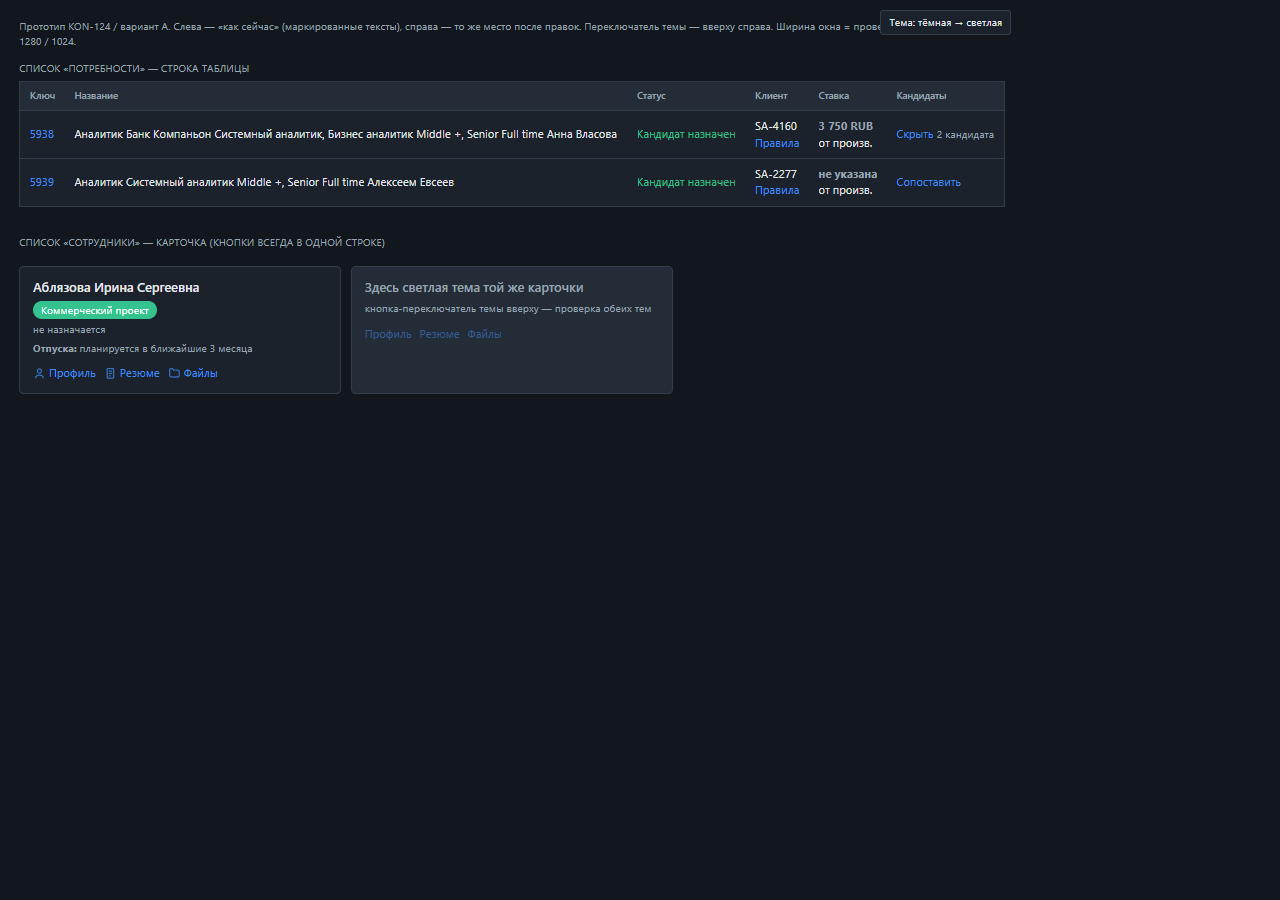
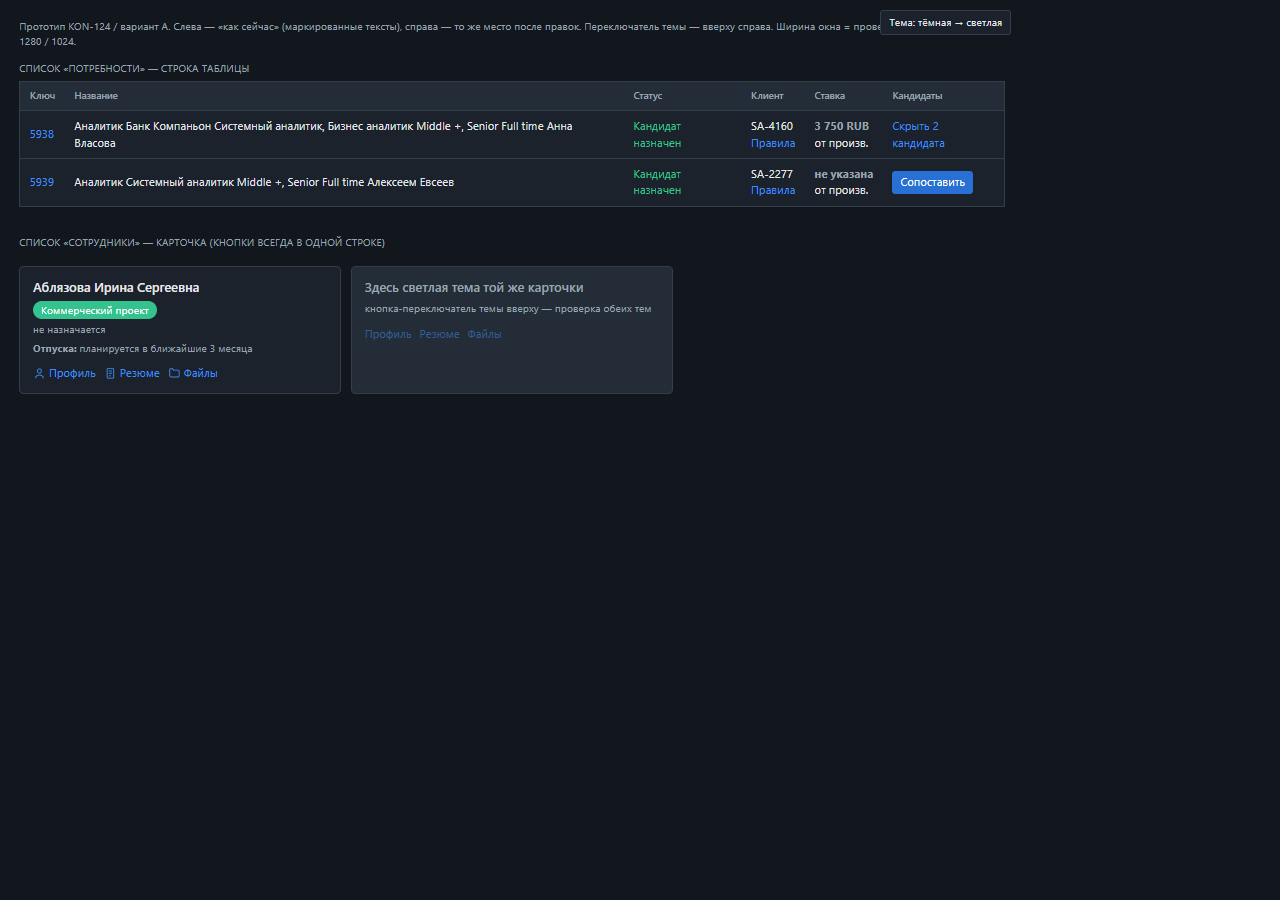
ux: KON-124 prototype - Convert button rendered as primary-small (as in prod), pngs regenerated

Changed region(s): [[0.0625, 0.0933, 0.7812, 0.2178]]

diff --git a/design/KON-124/variant_a.html b/design/KON-124/variant_a.html
@@ -24,6 +24,9 @@
   th{background:var(--panel-2);color:var(--muted);font-weight:600;font-size:12px}
   a{color:var(--accent);text-decoration:none;cursor:pointer}
   .status{color:var(--ok)}
+  /* «Сопоставить» - кнопка как в реальном UI (.primary-small), KON-124 её не меняет */
+  .primary-small{background:var(--primary-btn,#2870d4);color:#fff;border:0;border-radius:4px;padding:4px 10px;cursor:pointer;font:inherit}
+  [data-theme="light"] .primary-small{background:#2470c8}
   /* (KON-124/2) «Ставка»: сокращение «от произв.», nowrap + ellipsis на узкой колонке */
   .rate{white-space:nowrap;max-width:96px;overflow:hidden;text-overflow:ellipsis;display:inline-block;vertical-align:bottom}
   .rate-title{color:var(--muted);white-space:nowrap}
@@ -80,7 +83,7 @@
     <td><span class="status">Кандидат назначен</span></td>
     <td>SA-2277<br><a title="Правила клиента">Правила</a></td>
     <td><strong class="rate-title">не указана</strong><br><span class="rate" title="от производства">от произв.</span></td>
-    <td><a class="primary-small">Сопоставить</a></td>
+    <td><button type="button" class="primary-small">Сопоставить</button></td>
   </tr>
 </table>
 
